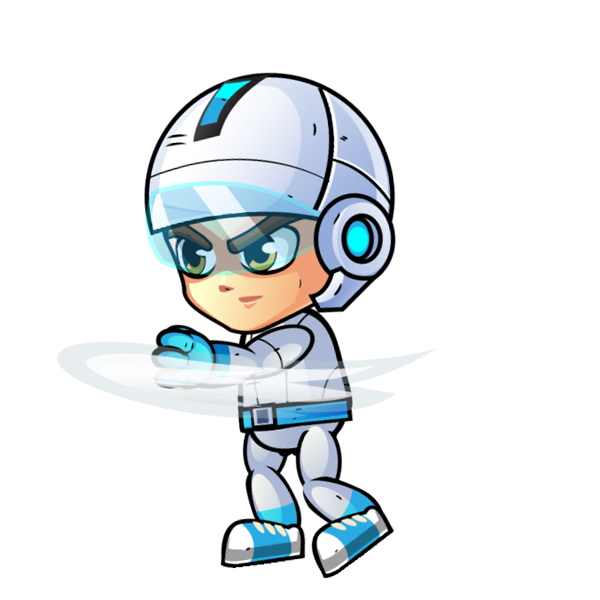
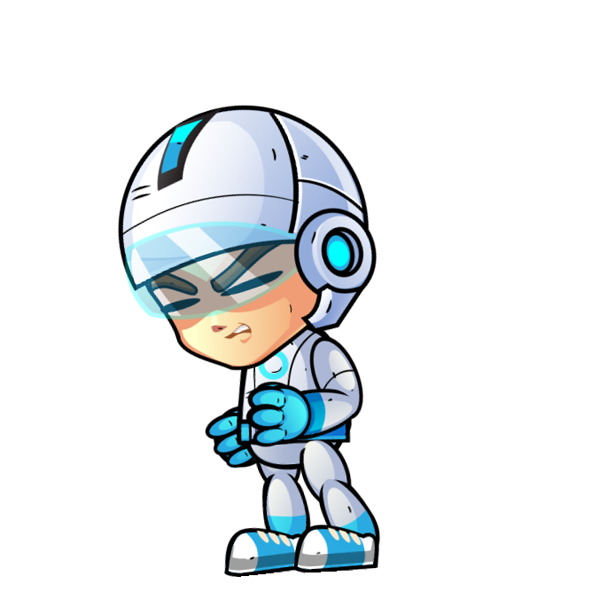
change takeDamage images, reduce opponent's intelligence

Changed region(s): [[0.18, 0.12, 0.66, 0.96]]

diff --git a/src/components/Oponent.vue b/src/components/Oponent.vue
@@ -153,7 +153,7 @@ export default {
       this.setEnemysFacingDirection(this.characterRef.facingDirection());
     },
     shouldEvadeAttack() {
-      return this.canFight && Math.random() < 0.5;
+      return this.canFight && Math.random() < 0.35;
     },
     reactToPlayerShot() {
       if (!this.evadingAttack && this.shouldEvadeAttack()) {
